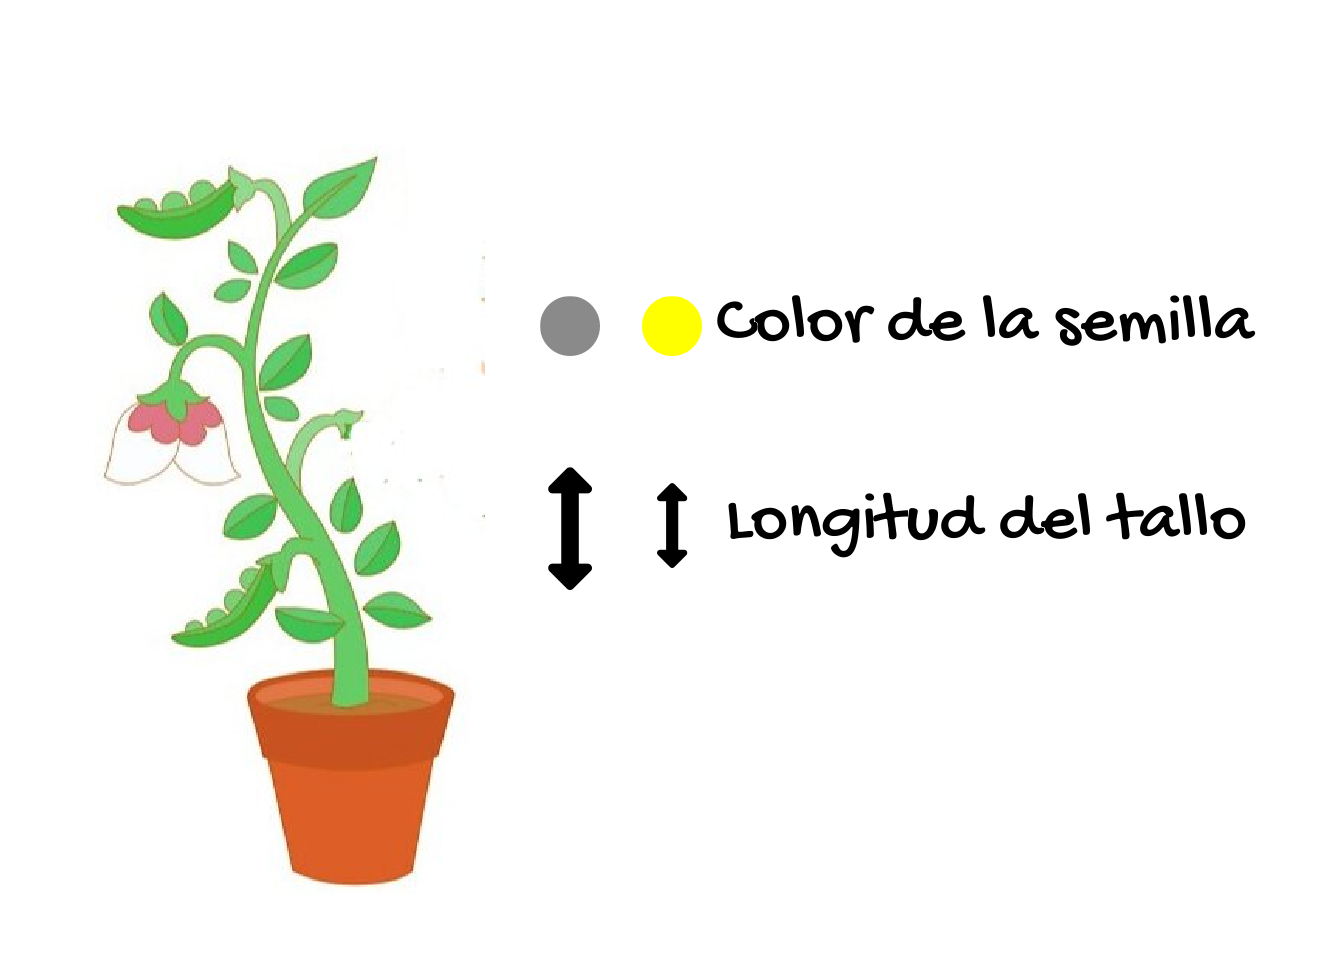
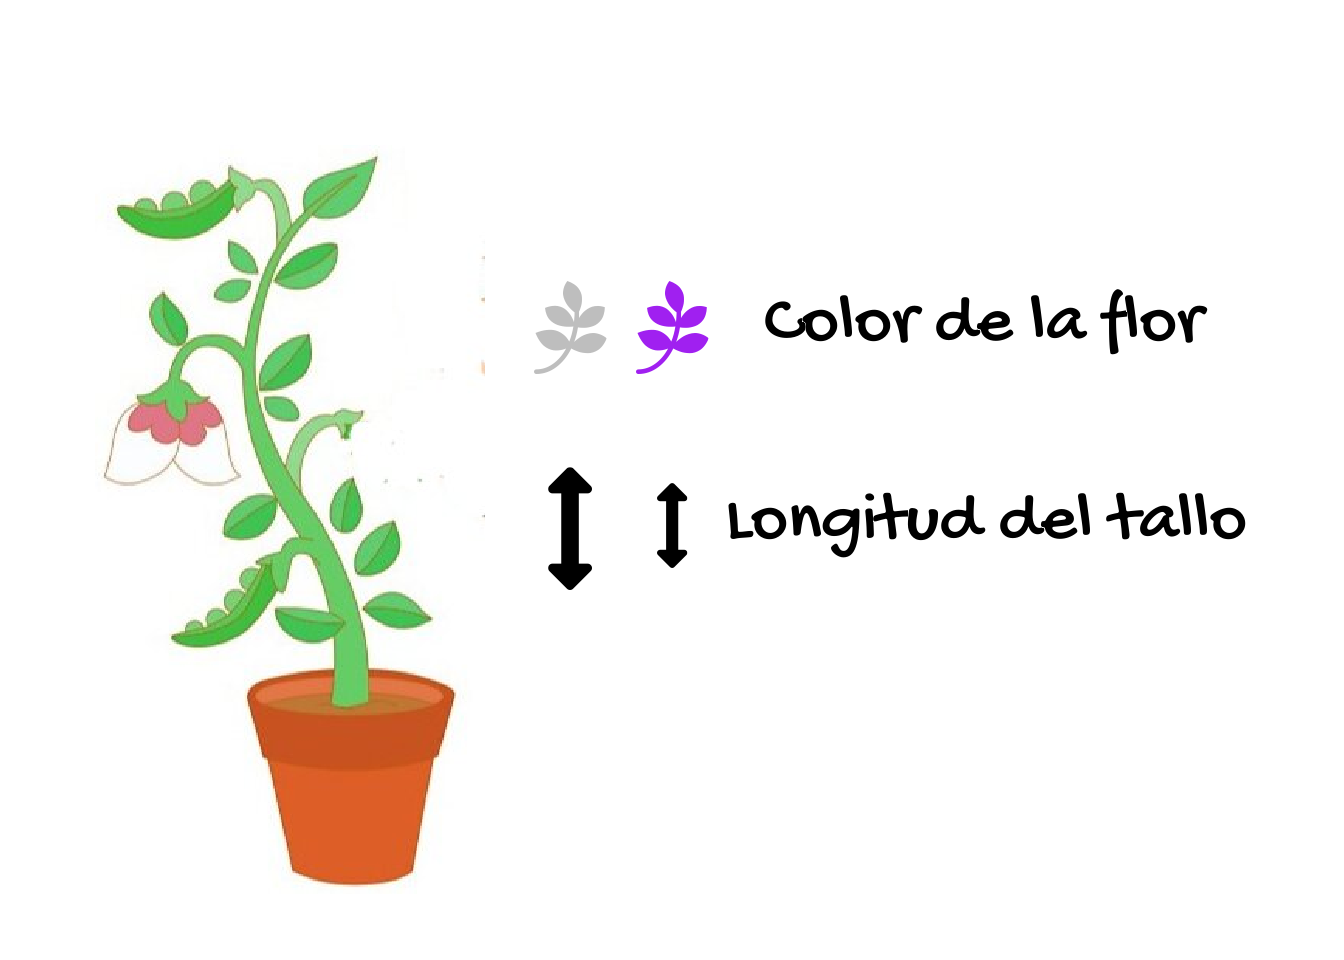
Se hicieron unos cuantos cambios.

Changed region(s): [[0.4062, 0.2812, 0.9375, 0.4062]]

diff --git a/01_genética_Mendeliana.html b/01_genética_Mendeliana.html
@@ -297,7 +297,7 @@ $(document).ready(function () {
       <a href="02_genética_Cuantitativa.html">Genética Cuantitativa</a>
     </li>
     <li>
-      <a href="03_genética_poblacional.html">Genética Poblacional</a>
+      <a href="03_genética_Poblacional.html">Genética Poblacional</a>
     </li>
   </ul>
 </li>
@@ -411,7 +411,7 @@ Una introducción a la herencia</font> </strong>
 </div>
 <div class="row">
 <div class="col-md-8">
-<p>El logro de Mendel se puede atribuir también a los siete caracteres que eligió para su estudio. Evitó características que muestran un rango de variación; en cambio, centró su atención en las que existen en dos formas fácilmente diferenciadas, como las capas de semillas blancas versus las grises, las semillas redondas versus arrugadas y las vainas infladas versus las comprimidas.</p>
+<p>El logro de Mendel se puede atribuir también a los siete caracteres que eligió para su estudio. Evitó características que muestran un rango de variación; en cambio, centró su atención en las que existen en dos formas fácilmente diferenciadas, como el color de la flor blanca versus las violetas, las semillas redondas versus arrugadas y las vainas infladas versus las comprimidas.</p>
 </div>
 <div class="col-md-4">
 <p><img src="01_gen%C3%A9tica_Mendeliana_files/figure-html/Gr%C3%A1fica%20en%20blanco%20de%20rasgos%20en%20guisantes-1.png" width="100%" style="display: block; margin: auto;" /></p>
@@ -468,7 +468,7 @@ En el contexto de cruces genéticos, se define un <font color="black"><u>gen</fo
 </h2>
 <HR>
 <p class="mb-0">
-Una de dos o más formas alternativas de un gen. Por ejemplo, en los cruces de Mendel, el color de la semilla fue determinada por un gen que existe como dos <font color="black"><u>alelos</font></u> diferentes.
+Una de dos o más formas alternativas de un gen. Por ejemplo, en los cruces de Mendel, el color de la flor fue determinada por un gen que existe como dos <font color="black"><u>alelos</font></u> diferentes.
 </p>
 </div>
 </div>
@@ -483,7 +483,7 @@ Una de dos o más formas alternativas de un gen. Por ejemplo, en los cruces de M
 </h2>
 <HR>
 <p class="mb-0">
-Lugar específico en un cromosoma ocupado por un alelo. Por lo tanto, hay un lugar específico, un <font color="black"><u>locus</font></u>, en un cromosoma en las plantas de guisantes donde se determina el color de las semillas.
+Lugar específico en un cromosoma ocupado por un alelo. Por lo tanto, hay un lugar específico, un <font color="black"><u>locus</font></u>, en un cromosoma en las plantas de guisantes donde se determina el color de la flor.
 </p>
 </div>
 </div>
@@ -512,6 +512,7 @@ El <font color="black"><u>fenotipo</font></u> es la manifestación o aparición 
 </div>
 </div>
 </div>
+<p>Estos experimentos le permitieron deducir no solo los genotipos de las plantas individuales, sino también las reglas que rigen su herencia.</p>
 <p><br></p>
 <H4 align="center">
 Copyright © 2019, página web hecha con Rmarkdown.

diff --git a/research.html b/research.html
@@ -296,7 +296,7 @@ $(document).ready(function () {
       <a href="02_genética_Cuantitativa.html">Genética Cuantitativa</a>
     </li>
     <li>
-      <a href="03_genética_poblacional.html">Genética Poblacional</a>
+      <a href="03_genética_Poblacional.html">Genética Poblacional</a>
     </li>
   </ul>
 </li>
